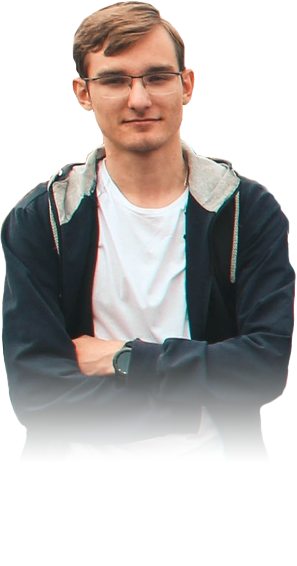
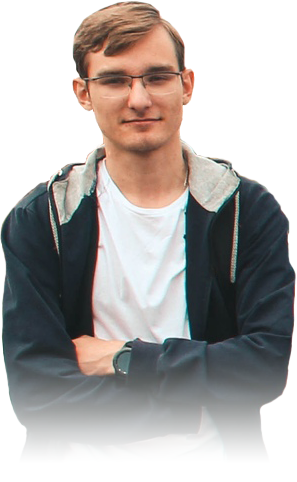
fixed height is removed

diff --git a/style.css b/style.css
@@ -90,7 +90,6 @@ body
 {
     width: 100%;
     max-width: 1080px;
-    height: 969px;
     margin: 0 auto;
 }
 
@@ -101,18 +100,15 @@ body
 .head
 {
     width: 100%;
-    height: 80px;
     display: flex;
     justify-content: center;
-    align-items: flex-start;
     background-color: #3B3B3B;
     box-shadow: 0px 10px 60px rgba(59, 59, 59, 0.3);
     border-radius: 0 0px 20px 20px;
     border-bottom: 3px solid #00CCA3;
-    box-sizing: border-box;
 }
 
-.logo-row
+.head-row
 {
     width: 96%;
     font-family: Reem Kufi, sans-serif;
@@ -120,7 +116,6 @@ body
     display: flex;
     justify-content: space-between;
     align-items: center;
-    height: inherit;
 }
 
 .logo
@@ -216,11 +211,9 @@ body
 
 .welcome-block
 {
-    height: 550px;
     width: 100%;
     display: flex;
     justify-content: center;
-    align-items: flex-start;
 }
 
 .welcome-block-row
@@ -229,8 +222,7 @@ body
     display: flex;
     justify-content: space-between;
     align-items: center;
-    height: 530px;
-    padding-top: 20px;
+    margin: 60px 0px;
 }
 
 .welcome-text
@@ -252,10 +244,7 @@ body
 .photo
 {
     z-index: -1;
-    background: url(Img/photo.png) 100% 100% no-repeat;
-    background-size: contain;
-    width: 40%;
-    height: 100%;
+    width: 30%;
 }
 
 /* ###
@@ -264,7 +253,6 @@ body
 
 .skills
 {
-    height: 339px;
     width: 100%;
     display: flex;
     justify-content: center;
@@ -273,7 +261,6 @@ body
     box-shadow: 0px -10px 60px rgba(59, 59, 59, 0.3);
     border-radius: 20px 20px 0 0;
     border-top: 3px solid #00CCA3;
-    box-sizing: border-box;
 }
 
 .skills-row
@@ -281,7 +268,7 @@ body
     width: 96%;
     display: flex;
     justify-content: space-between;
-    align-items: flex-start;
+    margin: 80px 0px;
 }
 
 .languages, .programms
@@ -289,7 +276,6 @@ body
     color: #F5F5F5;
     font-size: 1em;
     font-style: italic;
-    width: 46%;
     text-align: center;
 }
 
@@ -298,13 +284,13 @@ body
     color: #00CCA3;
     display: flex;
     justify-content: space-around;
-    margin-top: 10px;
+    margin-top: 20px;
 }
 
 .items>span
 {
-    margin: 10px 0px;
     animation: text-anim-up_down 3s ease-in-out infinite;
+    margin-bottom: 10px;
 }
 
 .items>span:nth-child(even)
@@ -325,23 +311,8 @@ body
     }
 }
 
-@media screen and (max-width: 650px)
+@media screen and (max-width: 800px)
 {
-    body
-    {
-        font-size: 20px;
-    }
-
-    .welcome-block-row
-    {
-        margin-top: 0vh;
-    }
-
-    .photo
-    {
-        height: 60%;
-    }
-
     .items
     {
         flex-direction: column;
@@ -349,7 +320,21 @@ body
 
     .items>span:nth-child(even)
     {
-        margin: 0px;
+        margin: 0px 0px 10px 0px;
+    }
+    
+}
+
+@media screen and (max-width: 650px)
+{
+    body
+    {
+        font-size: 20px;
+    }
+
+    .items
+    {
+        flex-direction: column;
     }
 }
 
@@ -363,21 +348,8 @@ body
 
 @media screen and (max-width: 350px)
 {
-    .logo
-    {
-        font-size: 1.5em;
-    }
-
-    .photo
-    {
-        width: 55%;
-    }
-}
-
-@media screen and (orientation: landscape) and (max-height: 770px)
-{
     body
     {
-        font-size: 20px;
+        font-size: 14px;
     }
 }

diff --git a/index.html b/index.html
@@ -10,14 +10,14 @@
 </head>
 <body>
     <script src="script.js"></script>
-    <div class="pre-logo-container">
+    <!-- <div class="pre-logo-container">
         <div class="pre-logo-transp">
             <div class="pre-logo"><span>PR</span>AYMIUM</div>
         </div>
-    </div>
+    </div> -->
     <div class="container">
         <div class="head">
-            <div class="logo-row">
+            <div class="head-row">
                 <div class="logo">
                     <span>PR</span>
                     <span>AYMIUM</span>
@@ -32,12 +32,12 @@
         <div class="welcome-block">
            <div class="welcome-block-row">
                <div class="welcome-text">
-                <b><span>Добро пожаловать!</span></b><br><br>
-                Николай Корноухов<br>
-                <span class="welcome-text-logo">PRAYMIUM</span><br>
-                3 курс ФАИ ЛГТУ          
+                    <b><span>Добро пожаловать!</span></b><br><br>
+                    Николай Корноухов<br>
+                    <span class="welcome-text-logo">PRAYMIUM</span><br>
+                    3 курс ФАИ ЛГТУ        
                </div>
-               <div class="photo"></div>
+               <img src="Img/photo.png" class="photo" alt=""></img>
            </div>
         </div>
         <div class="skills">
